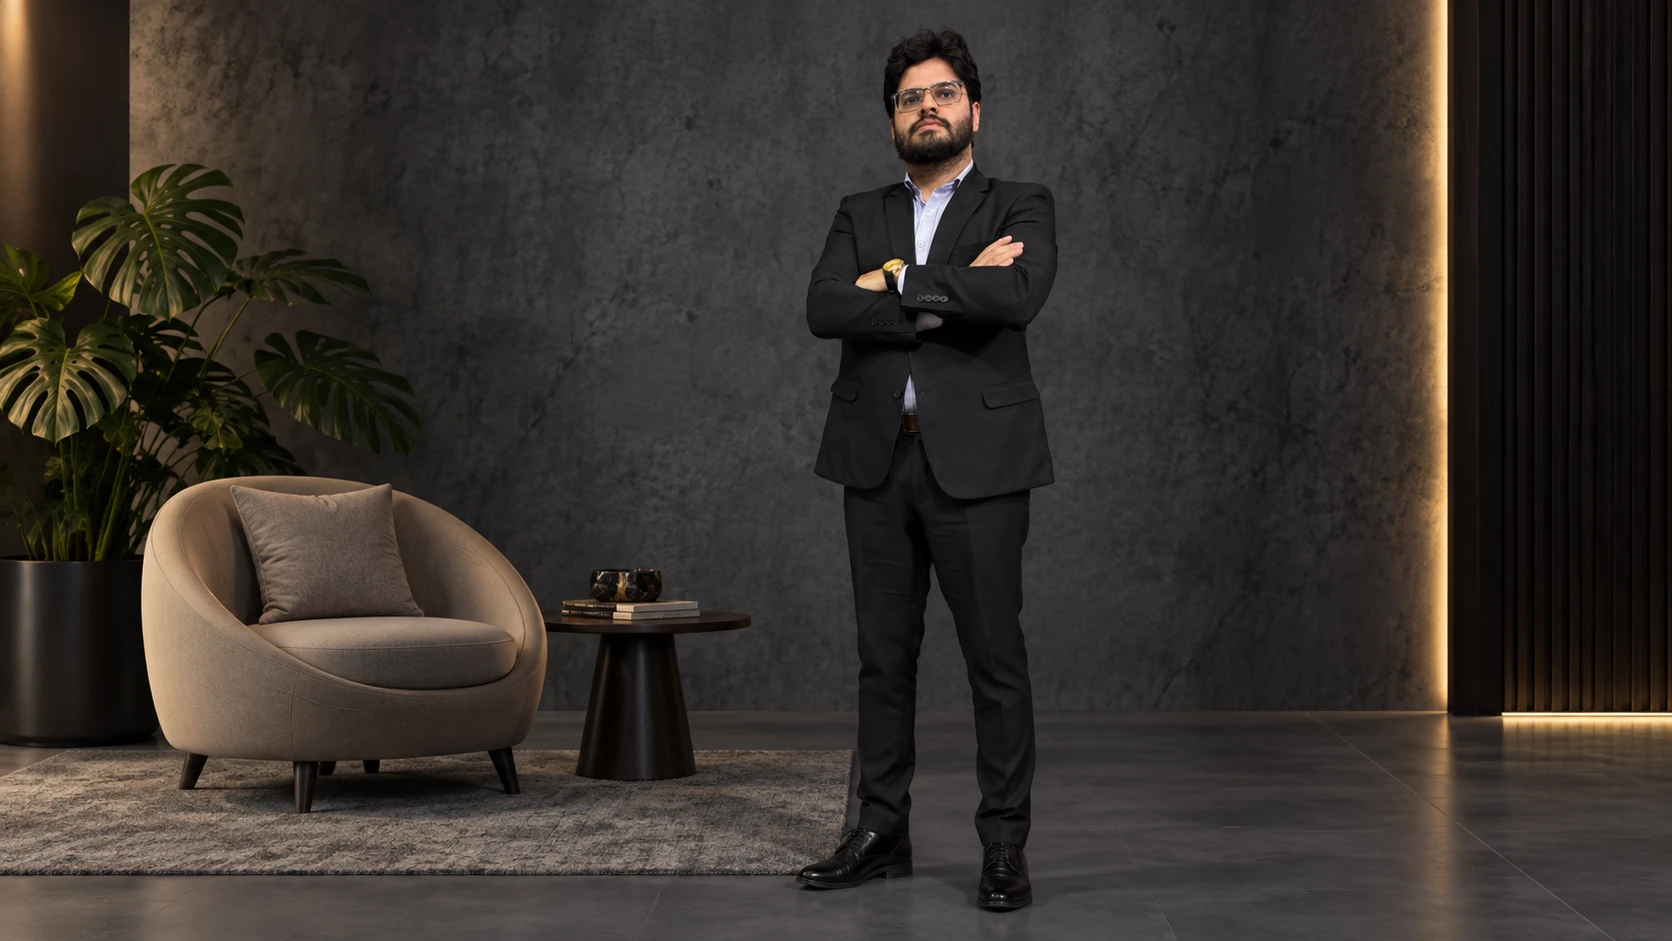
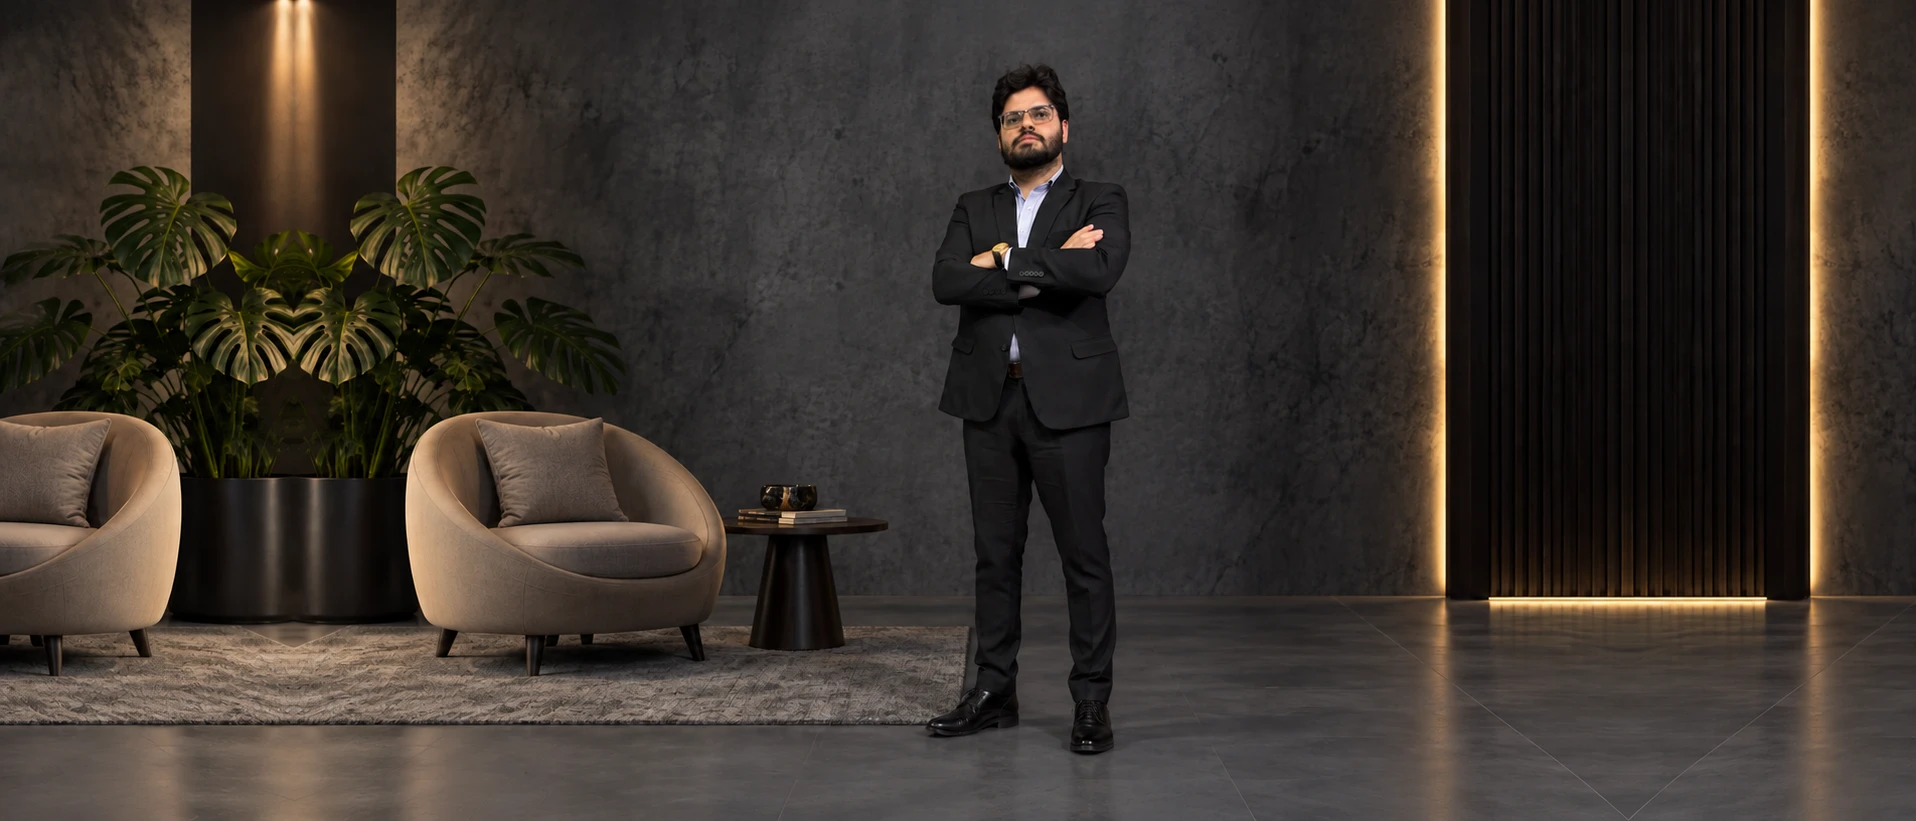
feat(site): otimiza navbar, hero e paineis de contraste (desktop/mobile)
- Navbar transparente na abertura, ganhando fundo translucido (sem blur)
  so ao rolar, para nao confundir a logo com o conteudo atras
- Hero: texto alinhado e dimensionado pela coluna do menu, com fundo
  restrito a propria caixa (mesmo padrao de .content-panel do resto do
  site) em vez do degrade largo anterior
- Aplica .content-panel nos blocos de texto que ainda ficavam direto
  sobre a foto de fundo dos capitulos (Como funciona, Artigos e casos
  recentes, Mais artigos), para melhorar contraste
- Ajusta ordem/foto dos capitulos visuais e corrige quebra de linha de
  "Coronel Vivida" no titulo do hero

diff --git a/index.html b/index.html
@@ -267,20 +267,21 @@
     .btn-outline:hover { border-color: var(--gold); color: var(--gold); }
 
     /* ── NAVBAR ── */
+    /* Transparente na abertura do site; ao rolar (.scrolled, via assets/site.js)
+       ganha uma barra sólida translúcida — sem blur — só para não confundir a
+       logo com o conteúdo por trás. */
     #navbar {
       position: fixed;
       top: 0; left: 0; right: 0;
       z-index: 1000;
       padding: 20px 0;
+      background: transparent;
       transition: background-color var(--tr), padding var(--tr);
       transform: translateZ(0);
-      will-change: backdrop-filter;
     }
 
     #navbar.scrolled {
-      background: rgba(20,17,13,0.94);
-      backdrop-filter: blur(20px);
-      -webkit-backdrop-filter: blur(20px);
+      background: rgba(20,17,13,0.85);
       padding: 14px 0;
     }
 
@@ -356,39 +357,70 @@
       isolation: isolate;
     }
 
+    /* #navbar é fixed e sempre transparente, sobre os 3 capítulos.
+       Por isso .chapter-bg dos TRÊS capítulos começa exatamente abaixo dela
+       (top: var(--nav-h)) e cobre até o fim da viewport, sem respiro. */
     .chapter-bg {
       grid-column: 1;
       grid-row: 1;
       position: sticky;
-      top: 0;
+      top: var(--nav-h);
       align-self: start;
-      height: 100vh;
-      height: 100svh;
+      height: calc(100vh - var(--nav-h));
+      height: calc(100svh - var(--nav-h));
       overflow: hidden;
       z-index: 0;
       pointer-events: none;
+      background: var(--dark);
     }
 
+    /* Fundo full-screen direto: as fotos já vêm recortadas em ~2.33:1 (bem
+       perto da proporção real da área abaixo da navbar), então cover quase
+       não precisa cortar nada. A <img> cobre 100% do .chapter-bg (sticky,
+       100vw de largura, borda-a-borda). */
     .chapter-bg-img {
       position: absolute;
       inset: 0;
+      z-index: 0;
       width: 100%;
       height: 100%;
       object-fit: cover;
+      object-position: center;
       display: block;
     }
 
-    /* Escurecimento "muito discreto" e uniforme — a foto continua sendo o
-       cenário, os blocos de texto é que ganham seu próprio painel (mais
-       abaixo) para garantir leitura. Um leve gradiente vertical nas bordas
-       do próprio capítulo funciona como a "faixa de transição" para o
-       carvão do site, suavizando a entrada/saída de cada fotografia. */
+    /* Suaviza a passagem de um capítulo para o outro: uma faixa no topo e
+       outra na base de cada foto borra o PRÓPRIO fundo por trás dela
+       (backdrop-filter), com o blur esmaecendo até zero em direção ao
+       centro (mask-image) — a foto nítida no meio não é tocada, só as
+       bordas onde uma foto entrega a vez pra próxima. */
+    .chapter-bg-blend {
+      position: absolute;
+      left: 0;
+      right: 0;
+      height: 16%;
+      z-index: 1;
+      pointer-events: none;
+      backdrop-filter: blur(30px);
+      -webkit-backdrop-filter: blur(30px);
+    }
+    .chapter-bg-blend-top {
+      top: 0;
+      -webkit-mask-image: linear-gradient(to bottom, #000 0%, transparent 100%);
+      mask-image: linear-gradient(to bottom, #000 0%, transparent 100%);
+    }
+    .chapter-bg-blend-bottom {
+      bottom: 0;
+      -webkit-mask-image: linear-gradient(to top, #000 0%, transparent 100%);
+      mask-image: linear-gradient(to top, #000 0%, transparent 100%);
+    }
+
+    /* Tingimento uniforme leve, só para leitura do texto sobre a foto. */
     .chapter-bg-overlay {
       position: absolute;
       inset: 0;
-      background:
-        linear-gradient(to bottom, var(--dark) 0%, transparent 8%, transparent 92%, var(--dark) 100%),
-        rgba(20,17,13,0.32);
+      z-index: 2;
+      background: rgba(20,17,13,0.32);
     }
 
     .chapter-content {
@@ -397,35 +429,6 @@
       position: relative;
       z-index: 1;
     }
-
-    /* Causa real do "desenquadramento ao assentar": #navbar (fixed,
-       z-index:1000) só ganha fundo sólido (rgba(20,17,13,.94) + blur) depois
-       de 48px de scroll (assets/site.js) — e não perde mais essa classe até
-       voltar a menos de 24px. Como os capítulos 2/3 só ficam visíveis depois
-       de rolar bem além disso, a navbar SEMPRE está opaca sobre eles, e a
-       cabeça nas fotos (com pouquíssima margem acima na foto original) cai
-       exatamente nessa faixa coberta — não é a foto que perde
-       enquadramento, é a navbar opaca por cima dela o tempo todo. Nos
-       capítulos 2/3, a camada de fundo passa a começar já abaixo da navbar
-       (em vez de height:100vh a partir do topo do viewport), preservando o
-       mesmo enquadramento (mesma imagem, mesmo object-position) em vez de
-       escondê-lo atrás da barra. */
-    .visual-chapter-2 .chapter-bg,
-    .visual-chapter-3 .chapter-bg {
-      top: var(--nav-h);
-      height: calc(100vh - var(--nav-h));
-      height: calc(100svh - var(--nav-h));
-    }
-
-    .visual-chapter-1 .chapter-bg-img { object-position: 50% 50%; }
-    /* Y baixo (não 50%) é inerte na maioria dos viewports (a imagem cabe
-       inteira na vertical, object-position-Y não tem "folga" pra usar) —
-       mas em janelas bem largas/baixas (ex.: 1920×1080), onde a proporção
-       do container passa a exceder a da foto, о corte passa a ser vertical;
-       um Y baixo garante que esse corte tire de baixo (pernas/chão) e nunca
-       da cabeça. */
-    .visual-chapter-2 .chapter-bg-img { object-position: 54% 20%; }
-    .visual-chapter-3 .chapter-bg-img { object-position: 56% 20%; }
 
     /* ── HERO ── */
     #hero {
@@ -467,8 +470,41 @@
       flex-direction: column;
       justify-content: center;
       width: 100%;
-      max-width: 620px;
-      padding: clamp(72px, 10vh, 108px) clamp(32px, 4vw, 64px) clamp(28px, 4.5vh, 48px) clamp(28px, 4vw, 56px);
+      /* --hero-inset repete o recuo esquerdo (mesma referência do .container);
+         --hero-nav-w é a largura, já medida, do menu (de "Áreas de Atuação" até
+         "Agendar Consulta") — o texto do hero termina exatamente na coluna onde
+         o menu começa, puxando a caixa até ali em vez do limite fixo antigo. */
+      --hero-inset: max(24px, calc((100% - 1200px) / 2 + 24px));
+      --hero-pad-r: clamp(32px, 4vw, 64px);
+      --hero-nav-w: 616px;
+      /* Piso de 420px: em telas médias (onde o menu já está bem apertado
+         contra o logo) a fórmula ficaria estreita demais — mantém a largura
+         antiga nesses casos, e só "puxa" de verdade em telas largas. */
+      max-width: max(420px, calc(100% - var(--hero-inset) + var(--hero-pad-r) - var(--hero-nav-w)));
+      padding: clamp(72px, 10vh, 108px) var(--hero-pad-r) clamp(28px, 4.5vh, 48px) var(--hero-inset);
+    }
+
+    /* Mesmo painel translúcido (.content-panel) usado no resto do site,
+       mas só ao redor do texto do hero — não mais um degradê cobrindo boa
+       parte da foto/logo. Para os 4 cantos aparecerem (como nos outros
+       painéis), a caixa deixa de começar na borda: o recuo esquerdo vira
+       margem, e o padding interno passa a ser simétrico com o direito.
+       .hero-scrim (véu largo) fica só para o mobile, onde o texto já
+       ocupa quase 100% da largura e um cartão flutuante não faria sentido. */
+    @media (min-width: 769px) {
+      .hero-scrim { display: none; }
+      .hero-copy {
+        max-width: max(380px, calc(100% - 2 * var(--hero-inset) + var(--hero-pad-r) - var(--hero-nav-w)));
+        margin-left: var(--hero-inset);
+        /* Empurra o topo do cartão para começar só depois da navbar
+           (transparente no topo da página) — sem isso, a borda/canto
+           arredondado do painel aparecia colidindo com o menu. */
+        margin-top: var(--nav-h);
+        padding-left: var(--hero-pad-r);
+        background: rgba(20,17,13,0.48);
+        border: 1px solid rgba(201,168,76,0.12);
+        border-radius: 16px;
+      }
     }
 
     .hero-kicker {
@@ -486,15 +522,19 @@
       color: var(--white);
       line-height: 1.15;
       letter-spacing: -0.01em;
-      max-width: 480px;
+      max-width: 100%;
       margin-bottom: clamp(10px, 1.6vh, 18px);
     }
 
+    /* Tipografia do corpo de texto NÃO é definida aqui — .hero-sub carrega
+       só o espaçamento; a classe .section-subtitle (já usada em todas as
+       outras seções do site) é quem define font-size/line-height/peso/cor/
+       largura, para o Hero usar exatamente o mesmo padrão de texto corrido
+       do resto da página. Ver HTML: <p class="hero-sub section-subtitle">.
+       O max-width:100% sobrescreve o limite de 560px do .section-subtitle
+       global, para acompanhar a largura mais generosa do hero. */
     .hero-sub {
-      font-size: clamp(.9rem, .25vw + .82rem, .98rem);
-      color: rgba(240,237,232,0.68);
-      max-width: 480px;
-      line-height: 1.62;
+      max-width: 100%;
       margin-bottom: clamp(14px, 2.6vh, 26px);
     }
 
@@ -502,17 +542,11 @@
 
     .hero-meta {
       font-size: 13px;
+      line-height: 1.5;
       color: rgba(240,237,232,0.5);
       padding-top: clamp(10px, 1.6vh, 18px);
       border-top: 1px solid rgba(255,255,255,0.08);
-      max-width: 480px;
-    }
-
-    @media (max-width: 1024px) {
-      .hero-title { max-width: 420px; }
-      .visual-chapter-1 .chapter-bg-img { object-position: 58% 50%; }
-      .visual-chapter-2 .chapter-bg-img { object-position: 58% 50%; }
-      .visual-chapter-3 .chapter-bg-img { object-position: 60% 50%; }
+      max-width: 100%;
     }
 
     /* Viewports desktop baixas (notebook com barras do navegador, zoom, etc.) —
@@ -530,13 +564,10 @@
 
     @media (max-width: 768px) {
       /* No mobile a coluna de texto ocupa quase toda a largura, então a foto
-         não tem "espaço negativo" real à esquerda — em vez de um painel de
-         texto separado (bug antigo), mantemos o mesmo cenário único, mas com
-         object-position mais central (rosto) e um véu quase full-bleed,
-         mais escuro embaixo, onde o texto se ancora. */
-      .visual-chapter-1 .chapter-bg-img { object-position: 68% 50%; }
-      .visual-chapter-2 .chapter-bg-img { object-position: 55% 50%; }
-      .visual-chapter-3 .chapter-bg-img { object-position: 56% 50%; }
+         não tem "espaço negativo" real à esquerda — mantemos o mesmo
+         cenário único (agora em contain, com folga acima/abaixo em vez de
+         corte) e um véu quase full-bleed, mais escuro embaixo, onde o
+         texto se ancora. */
       .hero-scrim {
         background:
           linear-gradient(to bottom,
@@ -547,23 +578,9 @@
             #14110D 100%
           );
       }
-      /* Na foto 1 (parede/logo), o brasão físico + "ALISSON PAZ ADVOGADO"
-         ocupam a metade superior do enquadramento (o crop mobile só corta
-         largura, nunca altura — a posição vertical do brasão na tela é fixa
-         e não se move via object-position). Duas mudanças, cada uma isolada:
-         1) align-items:flex-end no #hero ancora o bloco de texto embaixo
-            (por padrão ele era centralizado, jogando o H1 em cima do brasão);
-         2) como o texto sozinho (H1+sub+CTAs+rodapé) ainda é mais alto que a
-            faixa "livre" abaixo do brasão, o hero ganha ~130px extras de
-            altura mínima só no mobile — não é espaço vazio, é mais fotografia
-            visível — suficiente para o H1 nascer só depois de "ALISSON PAZ". */
-      #hero {
-        align-items: flex-end;
-        min-height: calc(100vh - var(--nav-h) + 220px);
-        min-height: calc(100svh - var(--nav-h) + 220px);
-      }
+      #hero { align-items: flex-end; }
       .hero-copy { max-width: 100%; justify-content: flex-end; padding: 28px 18px 40px; }
-      .hero-title, .hero-sub, .hero-meta { max-width: 100%; }
+      .hero-title, .hero-meta, .hero-sub { max-width: 100%; }
     }
 
     /* Em viewports mobile muito baixas (ex.: 320x568) o hero ocupa quase
@@ -1357,14 +1374,6 @@
     @media (max-width: 768px) {
       section { padding: 72px 0; }
 
-      /* FIX: backdrop-filter no navbar cria containing block para position:fixed filhos,
-         confinando o overlay dentro da altura do navbar (~80px) em vez do viewport inteiro.
-         Remove o blur no mobile; o fundo sólido já garante separação visual. */
-      #navbar.scrolled {
-        backdrop-filter: none;
-        -webkit-backdrop-filter: none;
-      }
-
       /* Bloqueia scroll do body enquanto menu está aberto */
       body.menu-open { overflow: hidden; touch-action: none; }
 
@@ -1798,7 +1807,9 @@
 <!-- CAPÍTULO VISUAL 1 — parede/logo: Hero + Áreas de atuação -->
 <div class="visual-chapter visual-chapter-1">
   <div class="chapter-bg" aria-hidden="true">
-    <img class="chapter-bg-img" src="hero-slide-1-logo-wall.webp" alt="" width="1672" height="941" fetchpriority="high" decoding="async">
+    <img class="chapter-bg-img" src="hero-slide-1-logo-wall.webp" alt="" width="1916" height="821" fetchpriority="high" decoding="async">
+    <div class="chapter-bg-blend chapter-bg-blend-top"></div>
+    <div class="chapter-bg-blend chapter-bg-blend-bottom"></div>
     <div class="chapter-bg-overlay"></div>
   </div>
   <div class="chapter-content">
@@ -1806,8 +1817,8 @@
   <div class="hero-scrim" aria-hidden="true"></div>
   <div class="hero-copy fade-up">
     <p class="hero-kicker">Dr. Alisson Nascimento Paz · OAB/PR 119.985</p>
-    <h1 class="hero-title">Advocacia Criminal, Cível e de Família em Coronel Vivida e região.</h1>
-    <p class="hero-sub">Atendimento direto pelo advogado responsável, com análise individual de cada caso e orientação sobre as providências cabíveis, nas áreas Criminal, Cível, Família, Consumidor e Digital/LGPD.</p>
+    <h1 class="hero-title">Advocacia Criminal, Cível e de Família em Coronel&nbsp;Vivida e região.</h1>
+    <p class="hero-sub section-subtitle">Atendimento direto pelo advogado responsável, com análise individual de cada caso e orientação sobre as providências cabíveis, nas áreas Criminal, Cível, Família, Consumidor e Digital/LGPD.</p>
     <div class="hero-actions">
       <a href="https://wa.me/5546999746391?text=Ol%C3%A1%2C%20vim%20pelo%20site%20e%20gostaria%20de%20agendar%20uma%20consulta." class="btn btn-gold" target="_blank" rel="noopener" data-conversion="whatsapp-cta">
         <svg width="18" height="18" viewBox="0 0 24 24" fill="currentColor"><path d="M17.472 14.382c-.297-.149-1.758-.867-2.03-.967-.273-.099-.471-.148-.67.15-.197.297-.767.966-.94 1.164-.173.199-.347.223-.644.075-.297-.15-1.255-.463-2.39-1.475-.883-.788-1.48-1.761-1.653-2.059-.173-.297-.018-.458.13-.606.134-.133.298-.347.446-.52.149-.174.198-.298.298-.497.099-.198.05-.371-.025-.52-.075-.149-.669-1.612-.916-2.207-.242-.579-.487-.5-.669-.51-.173-.008-.371-.01-.57-.01-.198 0-.52.074-.792.372-.272.297-1.04 1.016-1.04 2.479 0 1.462 1.065 2.875 1.213 3.074.149.198 2.096 3.2 5.077 4.487.709.306 1.262.489 1.694.625.712.227 1.36.195 1.871.118.571-.085 1.758-.719 2.006-1.413.248-.694.248-1.289.173-1.413-.074-.124-.272-.198-.57-.347m-5.421 7.403h-.004a9.87 9.87 0 01-5.031-1.378l-.361-.214-3.741.982.998-3.648-.235-.374a9.86 9.86 0 01-1.51-5.26c.001-5.45 4.436-9.884 9.888-9.884 2.64 0 5.122 1.03 6.988 2.898a9.825 9.825 0 012.893 6.994c-.003 5.45-4.437 9.884-9.885 9.884m8.413-18.297A11.815 11.815 0 0012.05 0C5.495 0 .16 5.335.157 11.892c0 2.096.547 4.142 1.588 5.945L.057 24l6.305-1.654a11.882 11.882 0 005.683 1.448h.005c6.554 0 11.89-5.335 11.893-11.893a11.821 11.821 0 00-3.48-8.413z"/></svg>
@@ -2105,7 +2116,9 @@
 <!-- CAPÍTULO VISUAL 2 — em pé: Trajetória + Diferenciais -->
 <div class="visual-chapter visual-chapter-2">
   <div class="chapter-bg" aria-hidden="true">
-    <img class="chapter-bg-img" src="hero-slide-2-standing.webp" alt="" width="1672" height="941" loading="lazy" decoding="async">
+    <img class="chapter-bg-img" src="hero-slide-2-standing.webp" alt="" width="1916" height="821" loading="lazy" decoding="async">
+    <div class="chapter-bg-blend chapter-bg-blend-top"></div>
+    <div class="chapter-bg-blend chapter-bg-blend-bottom"></div>
     <div class="chapter-bg-overlay"></div>
   </div>
   <div class="chapter-content">
@@ -2219,7 +2232,9 @@
 <!-- CAPÍTULO VISUAL 3 — sentado: Como funciona + Conteúdo + Contato + Localização -->
 <div class="visual-chapter visual-chapter-3">
   <div class="chapter-bg" aria-hidden="true">
-    <img class="chapter-bg-img" src="hero-slide-3-seated.webp" alt="" width="1672" height="941" loading="lazy" decoding="async">
+    <img class="chapter-bg-img" src="hero-slide-3-seated.webp" alt="" width="1916" height="821" loading="lazy" decoding="async">
+    <div class="chapter-bg-blend chapter-bg-blend-top"></div>
+    <div class="chapter-bg-blend chapter-bg-blend-bottom"></div>
     <div class="chapter-bg-overlay"></div>
   </div>
   <div class="chapter-content">
@@ -2231,7 +2246,7 @@
       <h2 class="section-title">Do primeiro contato<br>à resolução</h2>
       <p class="section-subtitle" style="margin: 0 auto;">Um processo claro e direto, sem burocracia desnecessária.</p>
     </div>
-    <div class="processo-steps">
+    <div class="processo-steps content-panel">
       <div class="step">
         <div class="step-dot" aria-hidden="true">01</div>
         <h3>Consulta inicial</h3>
@@ -2254,7 +2269,7 @@
 <!-- CONTEÚDO JURÍDICO -->
 <section id="conteudo">
   <div class="container">
-    <div class="content-header">
+    <div class="content-header content-panel">
       <div>
         <span class="section-tag">Conteúdo jurídico</span>
         <h2 class="section-title">Artigos e casos<br>recentes</h2>
@@ -2279,6 +2294,7 @@
         </div>
       </a>
     </div>
+    <div class="content-panel">
     <p class="content-list-label">Mais artigos</p>
     <div class="content-grid">
       <a class="article-card" href="artigo-lei-15397-codigo-penal.html">
@@ -2346,6 +2362,7 @@
           </div>
         </div>
       </a>
+    </div>
     </div>
   </div>
 </section>
